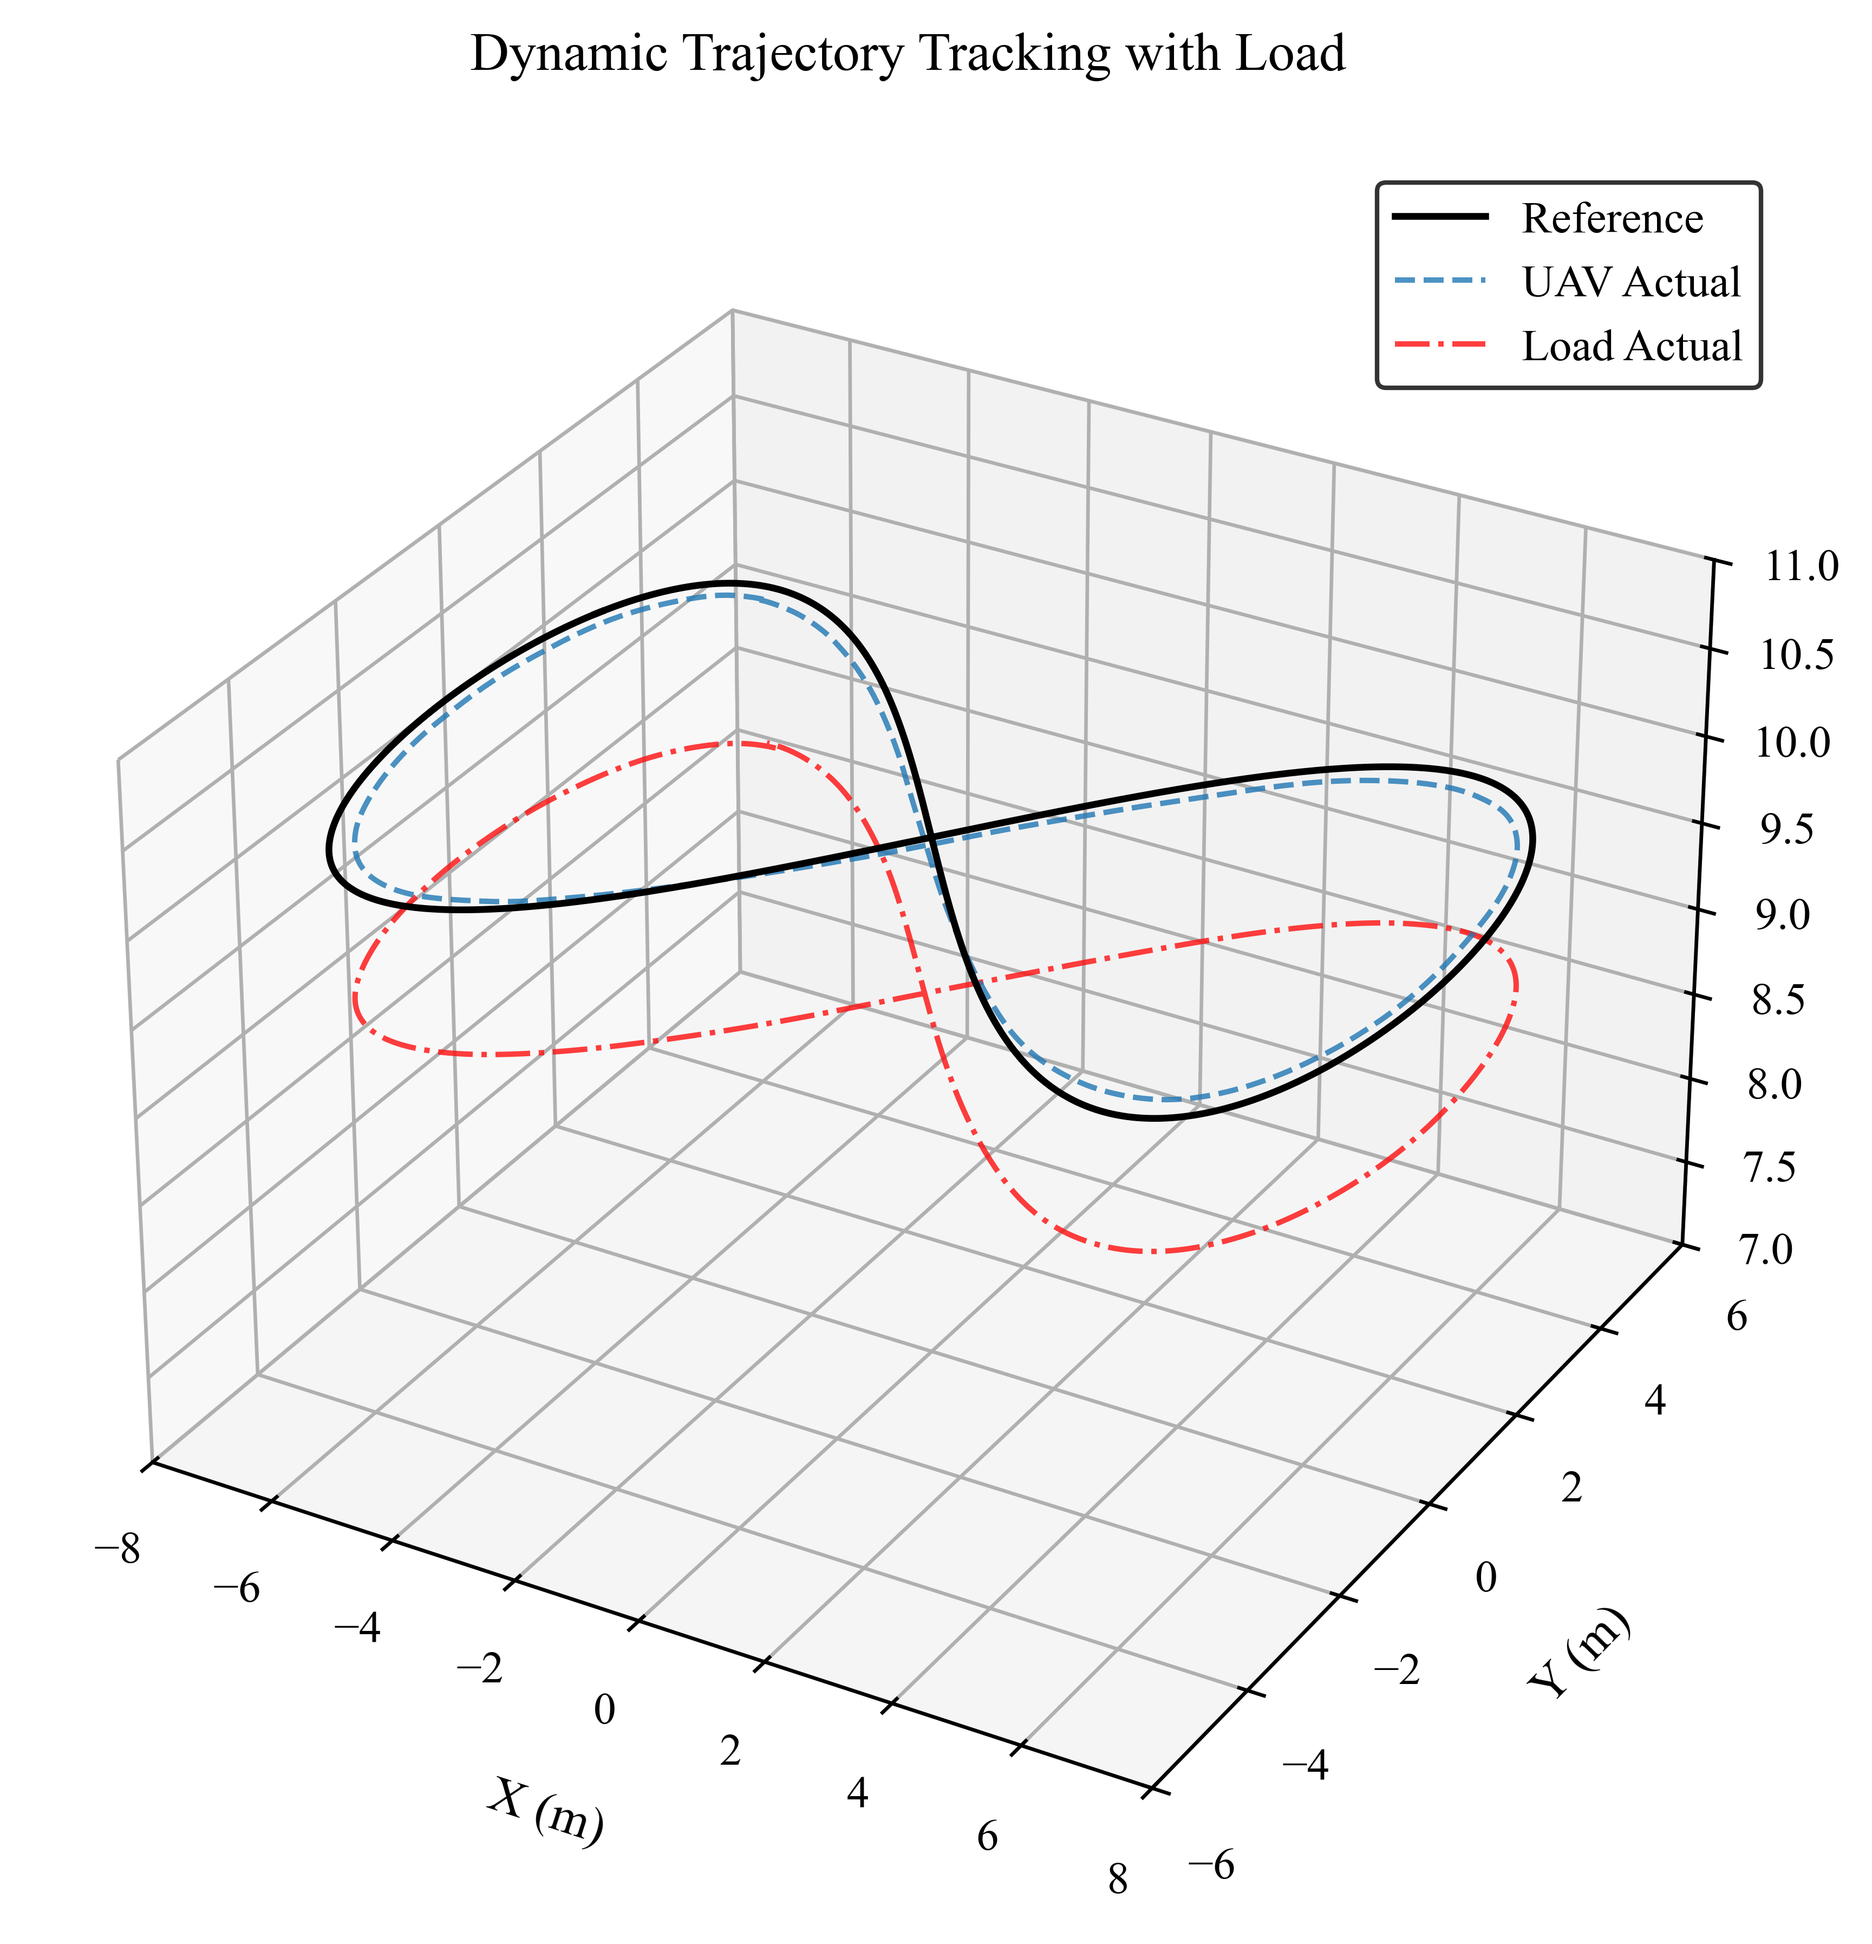
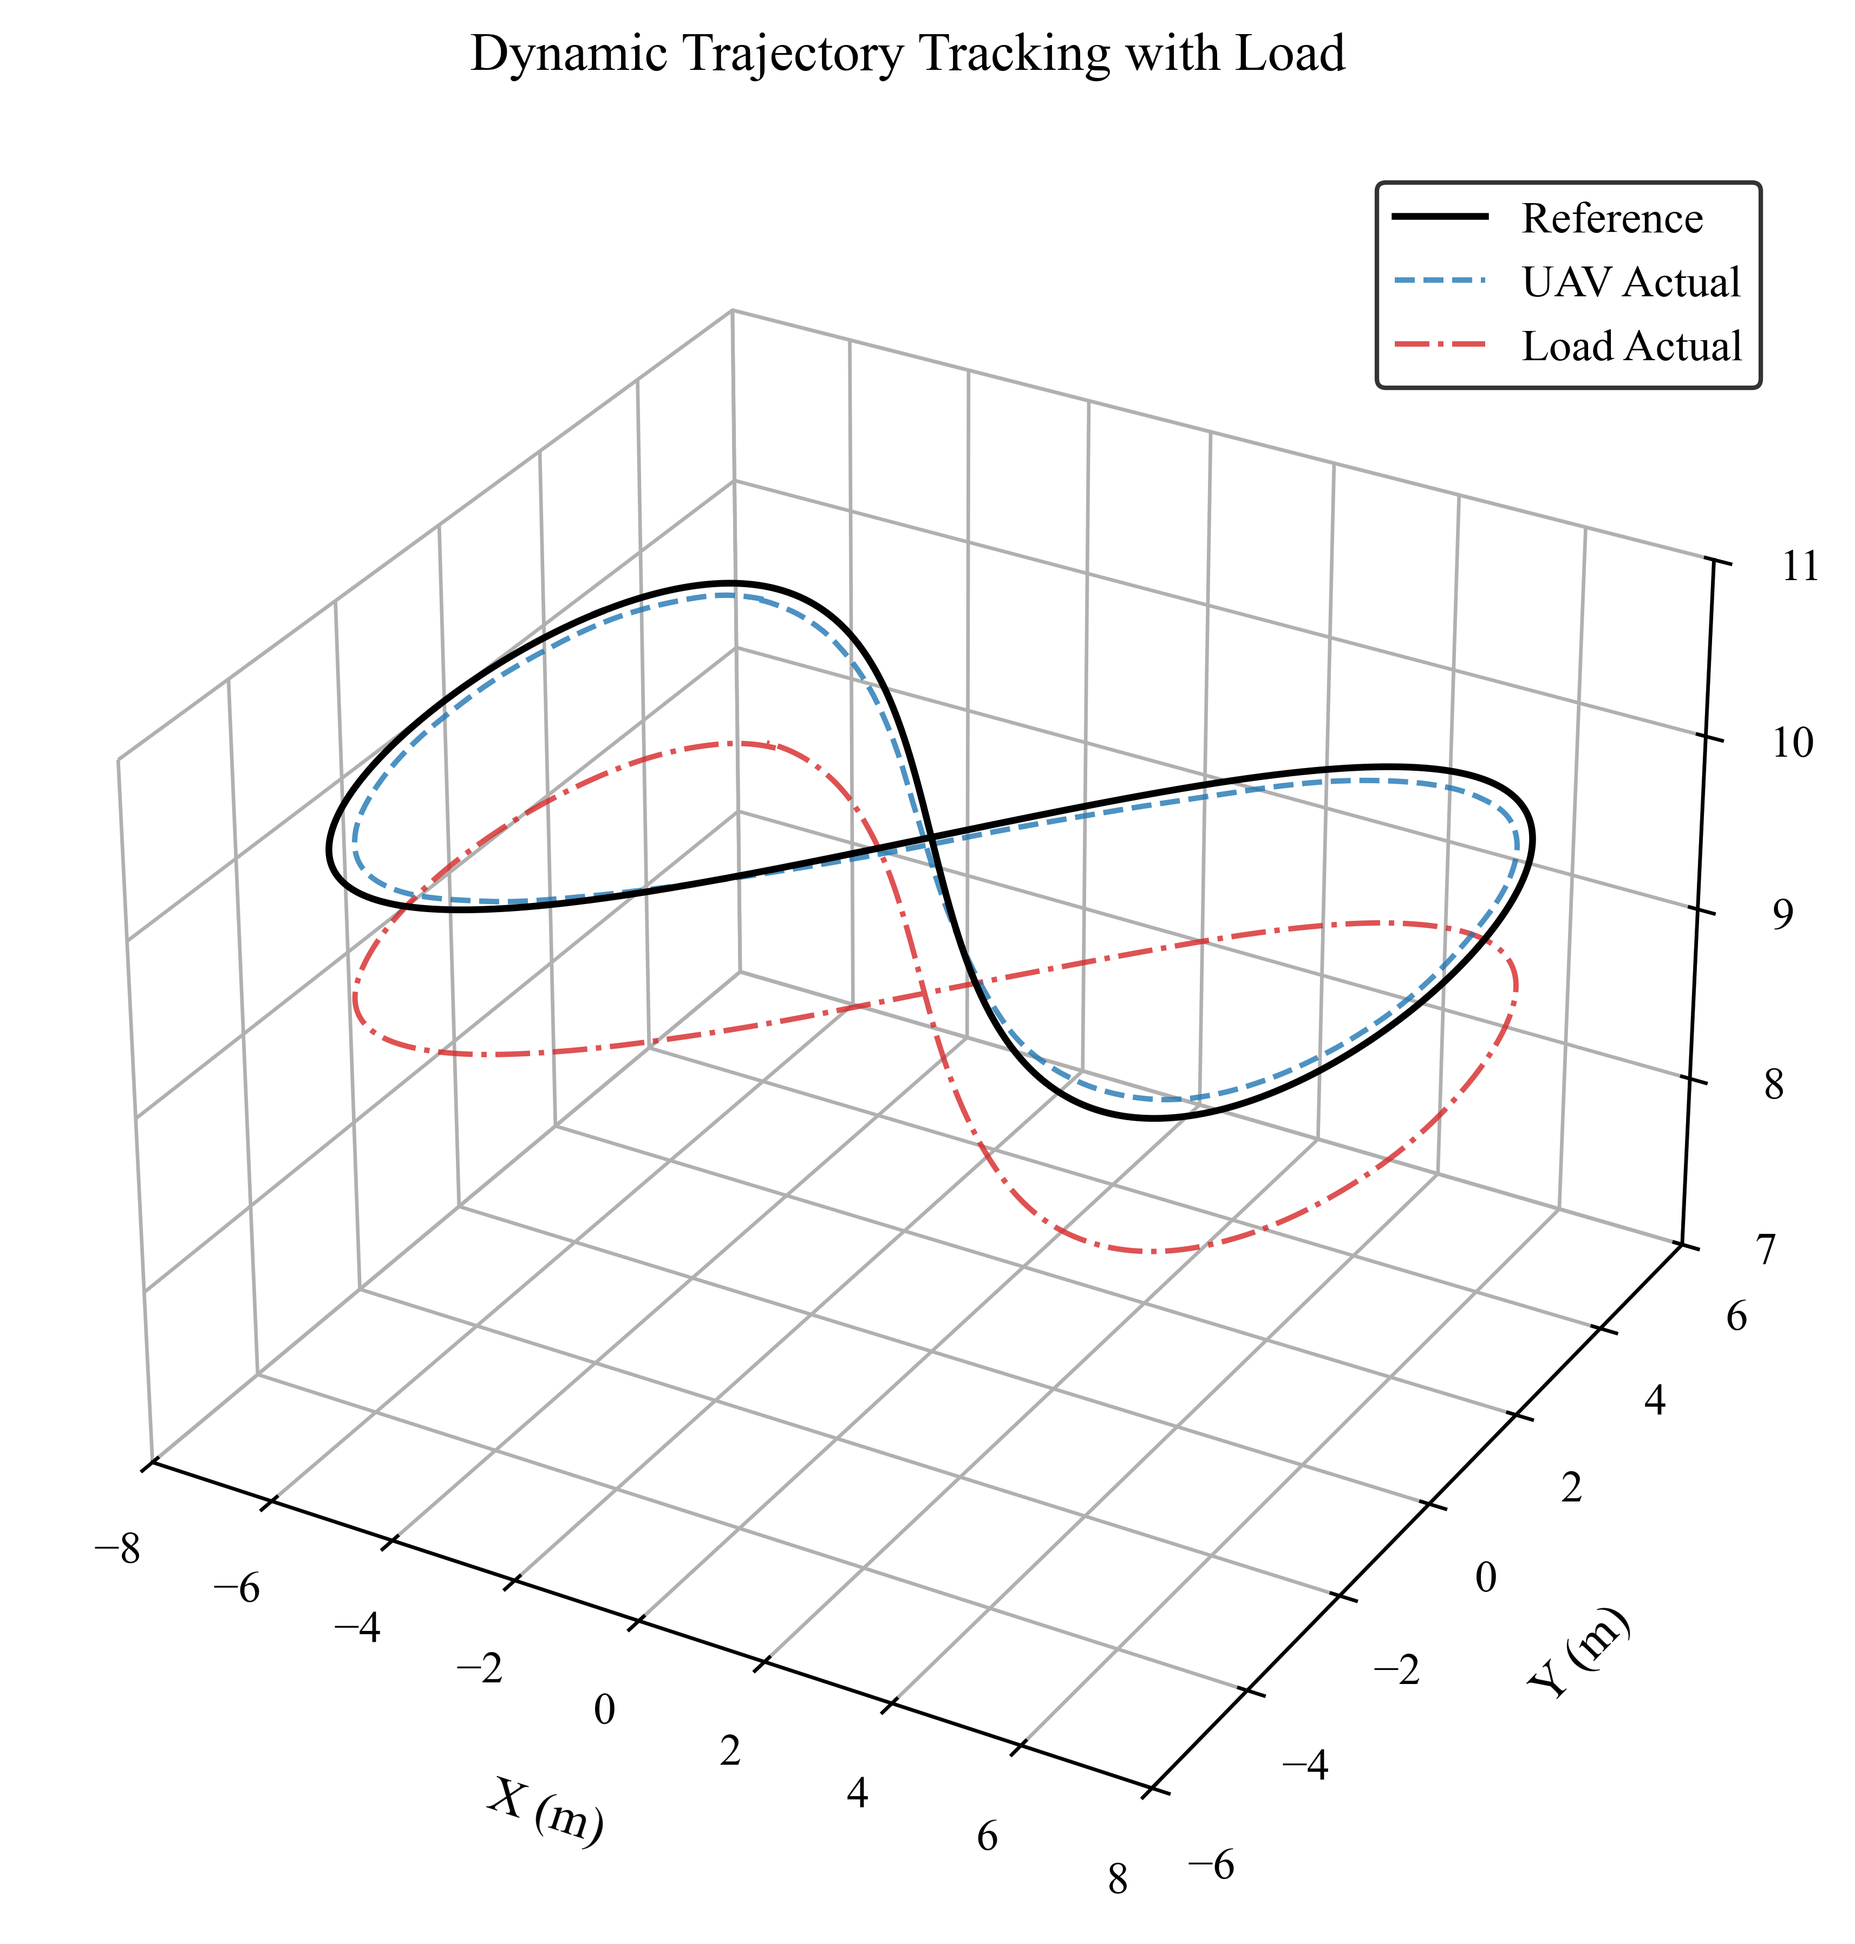
20260429 turn colour

diff --git a/data_analysis/python/eight_target_with_payload.py b/data_analysis/python/eight_target_with_payload.py
@@ -61,7 +61,17 @@ def process_3d_trajectory(file_path):
     payload_data['height'] = payload_data[col_payload_z] - 1
 
     fig = plt.figure(figsize=(8, 7))
+
     ax = fig.add_subplot(111, projection='3d')
+    ax.xaxis.pane.set_facecolor("#ffffff00")
+    ax.yaxis.pane.set_facecolor("#ffffff00")
+    ax.zaxis.pane.set_facecolor("#ffffff00")
+
+    ax.xaxis._axinfo["grid"]['linestyle']
+    ax.yaxis._axinfo["grid"]['linestyle']
+    ax.zaxis._axinfo["grid"]['linestyle']
+
+    ax.zaxis.set_major_locator(plt.MultipleLocator(1.0))
 
     if not target_data.empty:
         ax.plot(target_data[col_target_x], 
@@ -77,7 +87,7 @@ def process_3d_trajectory(file_path):
     ax.plot(payload_data['plot_x'], 
             payload_data['plot_y'], 
             payload_data['height'], 
-            color="#ff0e0e", linestyle='-.', linewidth=1.2, alpha=0.8, label='Load Actual', zorder=3)
+            color="#d62728", linestyle='-.', linewidth=1.2, alpha=0.8, label='Load Actual', zorder=3)
 
     ax.set_xlabel('X (m)', labelpad=10)
     ax.set_ylabel('Y (m)', labelpad=10)
